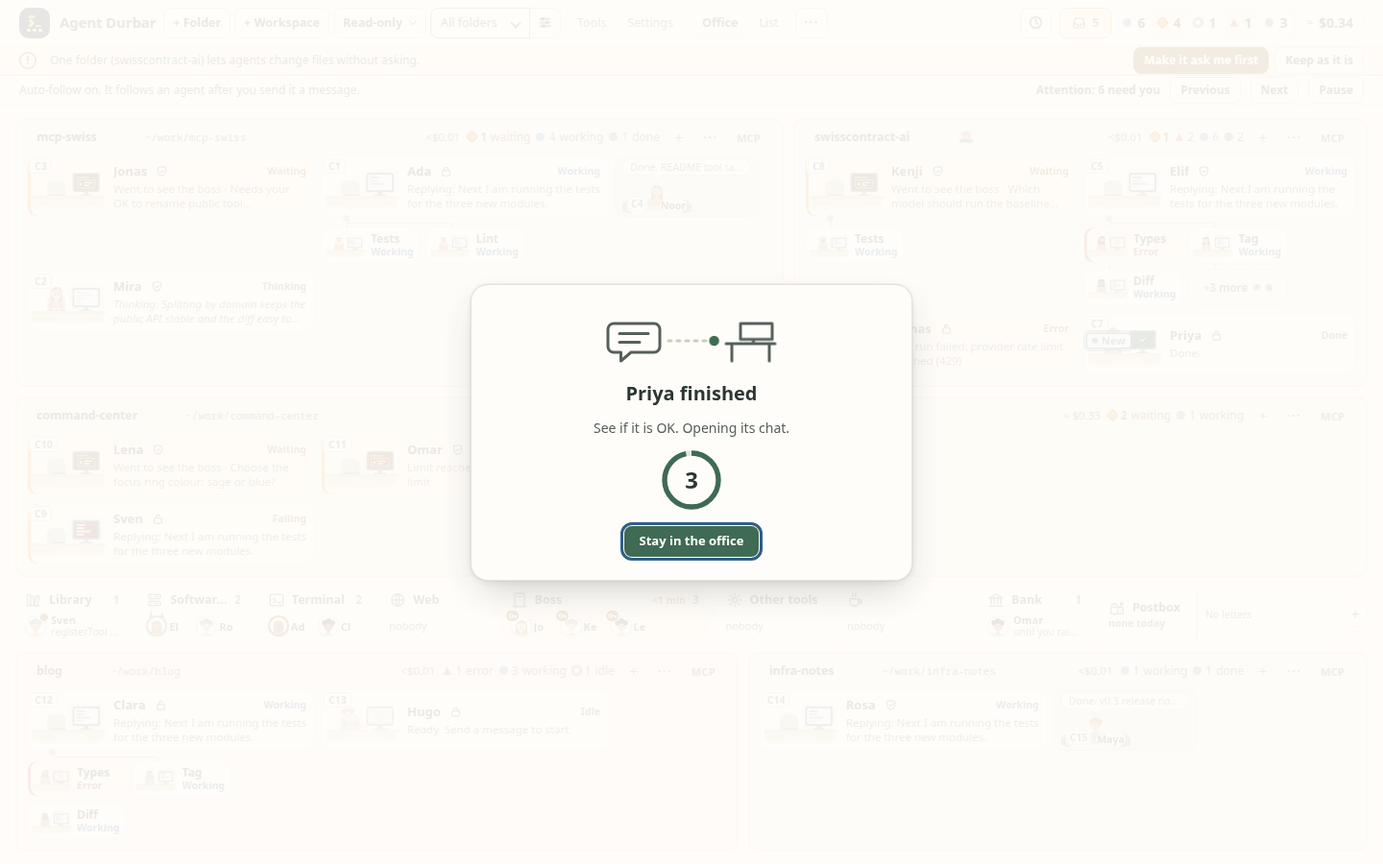
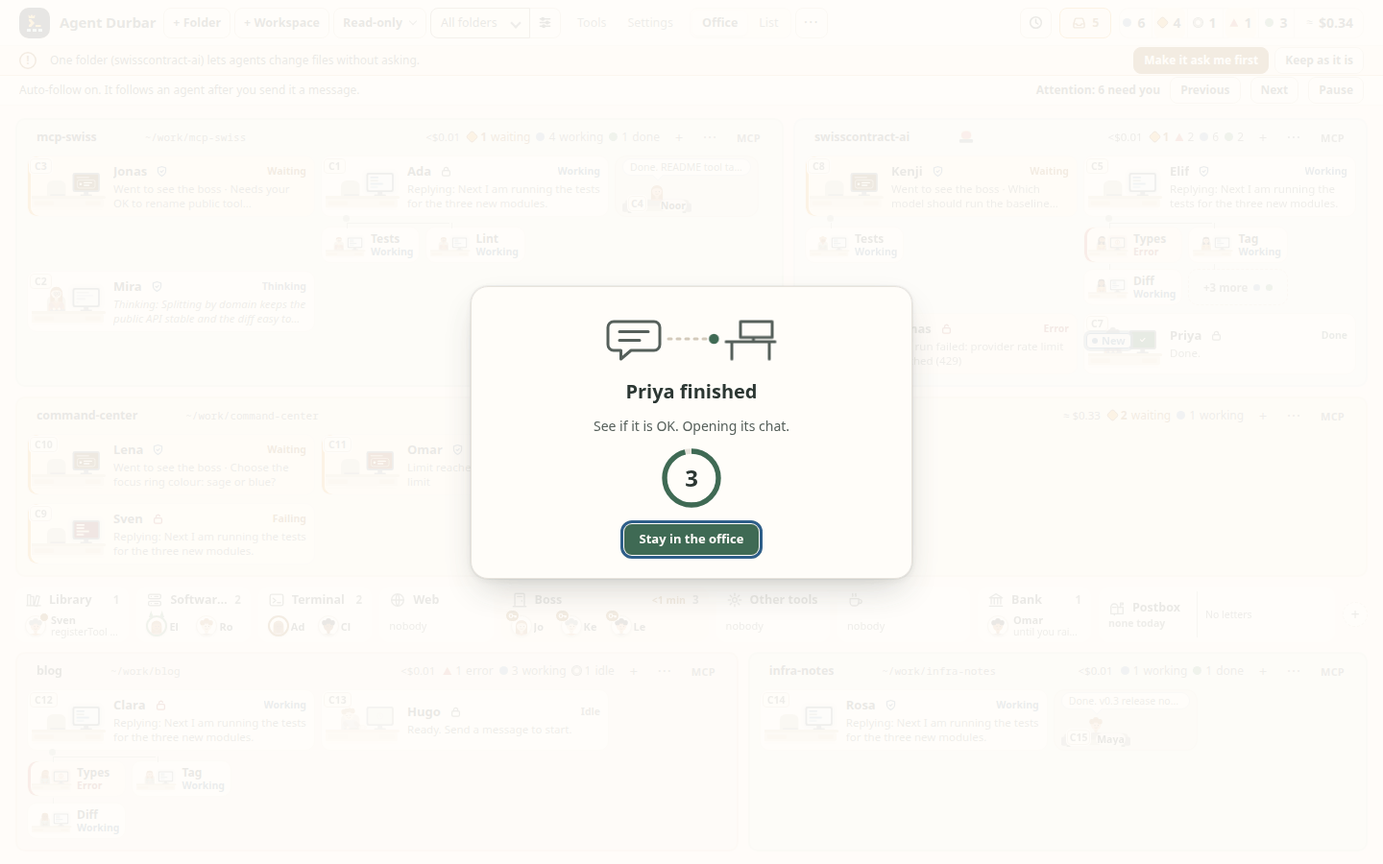
052: notice CSS on the type and spacing tokens, before the flat section; pictures linked from the spec (site budget); driver lint

Changed region(s): [[0.4375, 0.4356, 0.5625, 0.6533], [0.4375, 0.3733, 0.5625, 0.4356]]

diff --git a/scripts/check-052-follow-notice.js b/scripts/check-052-follow-notice.js
@@ -44,13 +44,13 @@ module.exports = async (ctx) => {
   const NOTICE = `document.querySelector('.dlg-ov.af-notice')`;
   const nameOf = (id) => js(`((window.__durbarSimUi.agents().find(a=>a.id===${jsLiteral(id)}))||{}).name||''`);
   const title = () => js(`(document.getElementById('panelTitle')||{}).textContent||''`);
-  const notice = () => js(`(()=>{const d=${NOTICE};if(!d)return null;const b=d.querySelector('.dlg'),btn=b.querySelector('.dbtn .btn');return {to:d.classList.contains('afn-to-office')?'office':d.classList.contains('afn-to-chat')?'chat':'',
+  const notice = () => js(`(()=>{const d=document.querySelector('.dlg-ov.af-notice');if(!d)return null;const b=d.querySelector('.dlg'),btn=b.querySelector('.dbtn .btn');return {to:d.classList.contains('afn-to-office')?'office':d.classList.contains('afn-to-chat')?'chat':'',
     head:b.querySelector('h3').textContent,sub:b.querySelector('.dsub').textContent,n:(b.querySelector('.afn-n')||{}).textContent||'',btn:btn?btn.textContent:'',btns:b.querySelectorAll('.dbtn .btn').length,
     focusBtn:document.activeElement===btn,role:b.getAttribute('role'),label:b.getAttribute('aria-label'),modal:b.getAttribute('aria-modal'),desc:b.getAttribute('aria-describedby'),
     hidden:(b.querySelector('.afn-count')||{getAttribute:()=>null}).getAttribute('aria-hidden'),art:(b.querySelector('.afn-art')||{getAttribute:()=>null}).getAttribute('aria-hidden')}})()`);
   /* every announcement, and what the live region ends on; `__racer` says a status within the notice's own 60 ms window (FR-240's priority) */
   const hooks = () => js(`(()=>{window.__ann=[];new MutationObserver(()=>{const t=document.getElementById('srAnnounce').textContent;if(t)window.__ann.push(t);}).observe(document.getElementById('srAnnounce'),{childList:true,characterData:true,subtree:true});
-    window.__nseq=[];window.__nAt=0;window.__nGone=0;new MutationObserver(()=>{const d=${NOTICE};if(d&&!d.__seen){d.__seen=1;window.__nAt=performance.now();window.__nGone=0;if(window.__racer)window.__durbarSimUi.announce('Racer status.');
+    window.__nseq=[];window.__nAt=0;window.__nGone=0;new MutationObserver(()=>{const d=document.querySelector('.dlg-ov.af-notice');if(d&&!d.__seen){d.__seen=1;window.__nAt=performance.now();window.__nGone=0;if(window.__racer)window.__durbarSimUi.announce('Racer status.');
       const n=d.querySelector('.afn-n');window.__nseq=[n.textContent];new MutationObserver(()=>{if(window.__nseq[window.__nseq.length-1]!==n.textContent)window.__nseq.push(n.textContent);}).observe(n,{childList:true,characterData:true,subtree:true});}
       if(!d&&window.__nAt&&!window.__nGone)window.__nGone=performance.now();}).observe(document.body,{childList:true});})()`);
   const anns = () => js(`window.__ann.slice()`);
@@ -64,14 +64,14 @@ module.exports = async (ctx) => {
     assert.ok(p && p.inside, name + ': the point on its desk is the desk');
     await clickAt(p.x, p.y);
     /* a Real office plate may take the first click as a hover zoom on a small layout: Enter on the focused plate opens it (both are a person's own opening) */
-    if (!(await until(`${OPEN}`, 1500)) && selector.includes('ro-plate')) { await js(`document.querySelector(${jsLiteral(selector)}).focus();0`); await H.key('Return'); }
-    if (!(await until(`${OPEN}&&!!document.getElementById('msgInput')&&(document.getElementById('panelTitle')||{}).textContent===${jsLiteral(name)}`, 8000))) assert.fail(`the chat of ${name} opens (title: ${JSON.stringify(await title())})`);
+    if (!(await until(`document.body.classList.contains('panel-open')`, 1500)) && selector.includes('ro-plate')) { await js(`document.querySelector(${jsLiteral(selector)}).focus();0`); await H.key('Return'); }
+    if (!(await until(`document.body.classList.contains('panel-open')&&!!document.getElementById('msgInput')&&(document.getElementById('panelTitle')||{}).textContent===${jsLiteral(name)}`, 8000))) assert.fail(`the chat of ${name} opens (title: ${JSON.stringify(await title())})`);
   };
   /* accepted, with no scripted reply after it: the step's own events are the only arrival */
-  const quiet = (on) => js(`(()=>{const b=window.__durbarSimUi.bridge();if(${on}){if(!b.__send){b.__send=b.send;b.send=async()=>({ok:true});}}else if(b.__send){b.send=b.__send;b.__send=null;}})();0`);
+  const quiet = (on) => (on ? js(`(()=>{const b=window.__durbarSimUi.bridge();if(!b.__send){b.__send=b.send;b.send=async()=>({ok:true});}})();0`) : js(`(()=>{const b=window.__durbarSimUi.bridge();if(b.__send){b.send=b.__send;b.__send=null;}})();0`));
   const sendHere = async (text) => { await mclick('#msgInput'); await type(text); await H.key('Return'); };
   /* FR-241: the notice covers the window, its card is inside, its parts do not overlap, text >= 10.5 px, no page scroll */
-  const fit = () => js(`(()=>{const P=[],d=${NOTICE};if(!d)return ['no notice'];const W=innerWidth,Hh=innerHeight,o=d.getBoundingClientRect(),c=d.querySelector('.dlg').getBoundingClientRect();
+  const fit = () => js(`(()=>{const P=[],d=document.querySelector('.dlg-ov.af-notice');if(!d)return ['no notice'];const W=innerWidth,Hh=innerHeight,o=d.getBoundingClientRect(),c=d.querySelector('.dlg').getBoundingClientRect();
     if(Math.round(o.left)!==0||Math.round(o.top)!==0||Math.round(o.width)!==W||Math.round(o.height)!==Hh)P.push('overlay is not the whole window: '+[o.left,o.top,o.width,o.height].map(Math.round));
     if(c.left<0||c.top<0||c.right>W||c.bottom>Hh)P.push('card outside the window: '+[c.left,c.top,c.right,c.bottom].map(Math.round));
     const parts=[...d.querySelectorAll('.afn-art,.dlg>h3,.dlg>.dsub,.afn-count,.dbtn .btn')].map(e=>({k:e.className.baseVal!==undefined?e.className.baseVal:(e.className||e.tagName),r:e.getBoundingClientRect()}));
@@ -82,9 +82,9 @@ module.exports = async (ctx) => {
     const fl=document.getElementById('floor');if(fl&&fl.scrollTop>0)P.push('the office scrolled');
     return P;})()`);
   /* the animations running inside the notice */
-  const running = () => js(`(()=>{const d=${NOTICE};if(!d)return -1;return document.getAnimations().filter(a=>a.playState==='running'&&a.effect&&a.effect.target&&d.contains(a.effect.target)).length;})()`);
+  const running = () => js(`(()=>{const d=document.querySelector('.dlg-ov.af-notice');if(!d)return -1;return document.getAnimations().filter(a=>a.playState==='running'&&a.effect&&a.effect.target&&d.contains(a.effect.target)).length;})()`);
   const shotTo = (name) => H.shot(path.join(OUT, name), { prep: 'mouse', settle: false, delay: 250 });
-  const bg = (on) => js(`window.__durbarFocus=${on ? '()=>false' : 'null'};0`);
+  const bg = (on) => (on ? js(`window.__durbarFocus=()=>false;0`) : js(`window.__durbarFocus=null;0`));
   const A = 'sim-7', B = 'sim-13';
 
   // ======== Open office: the whole behaviour, both sizes ========
@@ -116,7 +116,7 @@ module.exports = async (ctx) => {
     assert.strictEqual(await js(OPEN), true, `${tag}: the chat is still open under the notice`);
     assert.deepStrictEqual(await fit(), [], `${tag}: FR-241: the notice to the office fits`);
     if (w === 1440) assert.ok((await running()) >= 2, `${tag}: FR-241: the picture and the ring move with motion allowed`);
-    await ok(`!${NOTICE}&&!${OPEN}`, `${tag}: FR-239: the move happens when the count ends`, 6000);
+    await ok(`!document.querySelector('.dlg-ov.af-notice')&&!document.body.classList.contains('panel-open')`, `${tag}: FR-239: the move happens when the count ends`, 6000);
     const took = await js(`window.__nGone-window.__nAt`);
     assert.ok(took >= 2700 && took <= 4500, `${tag}: FR-239: about 3 s: ${Math.round(took)} ms`);
     assert.deepStrictEqual(await js(`window.__nseq.slice()`), ['3', '2', '1'], `${tag}: FR-239: it counts 3, 2, 1`);
@@ -138,7 +138,7 @@ module.exports = async (ctx) => {
     assert.deepStrictEqual([n.to, n.head, n.sub, n.btn, n.focusBtn, n.n], ['chat', `${nameA} finished`, 'See if it is OK. Opening its chat.', 'Stay in the office', true, '3'], `${tag}: FR-238, FR-239: the notice to the chat: ${JSON.stringify(n)}`);
     assert.strictEqual(await js(OPEN), false, `${tag}: nothing opened yet`);
     assert.deepStrictEqual(await fit(), [], `${tag}: FR-241: the notice to the chat fits`);
-    await ok(`!${NOTICE}&&${OPEN}&&document.getElementById('panelTitle').textContent===${jsLiteral(nameA)}&&document.activeElement&&document.activeElement.id==='panelTitle'`, `${tag}: FR-239: after the count its chat opens, focus on the title`, 6000);
+    await ok(`!document.querySelector('.dlg-ov.af-notice')&&document.body.classList.contains('panel-open')&&document.getElementById('panelTitle').textContent===${jsLiteral(nameA)}&&document.activeElement&&document.activeElement.id==='panelTitle'`, `${tag}: FR-239: after the count its chat opens, focus on the title`, 6000);
     await js(`window.__racer=0;0`);
     await ok(`window.__ann.includes(${jsLiteral(nameA + ' finished. Its chat is open.')})`, `${tag}: FR-240: the arrival line is said`, 2000);
     said = await anns();
@@ -153,30 +153,30 @@ module.exports = async (ctx) => {
     await ok(NOTICE, `${tag}: the notice again (every time)`, 4000);
     await ok(`window.__ann.some(t=>/Press Escape to stay here\\.$/.test(t))`, `${tag}: the notice was said (a cancel within its 60 ms window would be outranked by it)`, 2000);
     await mclick(`.dlg-ov.af-notice .dbtn .btn`);
-    await ok(`!${NOTICE}`, `${tag}: FR-239: Stay here closes the notice`, 2000);
-    await stays(`${OPEN}&&document.getElementById('panelTitle').textContent===${jsLiteral(nameA)}&&!${NOTICE}`, `${tag}: FR-239: Stay here: the chat stays open, past the count`, 3600);
+    await ok(`!document.querySelector('.dlg-ov.af-notice')`, `${tag}: FR-239: Stay here closes the notice`, 2000);
+    await stays(`document.body.classList.contains('panel-open')&&document.getElementById('panelTitle').textContent===${jsLiteral(nameA)}&&!document.querySelector('.dlg-ov.af-notice')`, `${tag}: FR-239: Stay here: the chat stays open, past the count`, 3600);
     assert.strictEqual(await js(`document.activeElement&&document.activeElement.id`), 'msgInput', `${tag}: FR-239: the focus goes back to the message box`);
     assert.ok((await js(`document.getElementById('afText').textContent`)).includes(`${nameA} is working`), `${tag}: FR-239: ${nameA} is still followed`);
-    if (!(await until(`window.__ann.includes('Staying here.')`, 3000))) assert.fail(`${tag}: FR-240: the cancel is said: ${JSON.stringify(await anns())} ${JSON.stringify(await js(`({live:document.getElementById('srAnnounce').textContent,shown:window.__durbarSimUi.afNotice.shown(),dlg:!!document.getElementById('modeDlg')})`))}`);
+    if (!(await until(`window.__ann.includes('Staying here.')`, 3000))) assert.fail(tag + ': FR-240: the cancel is said: ' + JSON.stringify(await anns()));
     await finish(A, 'Done again.');
-    await stays(`${OPEN}&&!${NOTICE}`, `${tag}: FR-184: an arrival in the chat already shown shows no notice and moves nothing`, 1500);
+    await stays(`document.body.classList.contains('panel-open')&&!document.querySelector('.dlg-ov.af-notice')`, `${tag}: FR-184: an arrival in the chat already shown shows no notice and moves nothing`, 1500);
 
     // ---- Escape cancels the same way
     await sendHere('and again');
     await ok(NOTICE, `${tag}: the notice`, 4000);
     await H.key('Escape');
-    await ok(`!${NOTICE}`, `${tag}: FR-239: Escape closes the notice`, 2000);
-    await stays(`${OPEN}&&!${NOTICE}`, `${tag}: FR-239: Escape: the chat stays open, past the count`, 3600);
+    await ok(`!document.querySelector('.dlg-ov.af-notice')`, `${tag}: FR-239: Escape closes the notice`, 2000);
+    await stays(`document.body.classList.contains('panel-open')&&!document.querySelector('.dlg-ov.af-notice')`, `${tag}: FR-239: Escape: the chat stays open, past the count`, 3600);
 
     // ---- a window in the background pauses the count; it goes on when the window is back
     await finish(A, 'Done.');
     await sendHere('in the background');
     await ok(NOTICE, `${tag}: the notice`, 4000);
     await bg(true);
-    await stays(`!!${NOTICE}&&${OPEN}&&document.querySelector('.af-notice .afn-n').textContent==='3'`, `${tag}: FR-239: in the background the count waits at 3`, 3600);
-    assert.strictEqual(await js(`${NOTICE}.classList.contains('afn-paused')`), true, `${tag}: and its motion pauses`);
+    await stays(`!!document.querySelector('.dlg-ov.af-notice')&&document.body.classList.contains('panel-open')&&document.querySelector('.af-notice .afn-n').textContent==='3'`, `${tag}: FR-239: in the background the count waits at 3`, 3600);
+    assert.strictEqual(await js(`document.querySelector('.dlg-ov.af-notice').classList.contains('afn-paused')`), true, `${tag}: and its motion pauses`);
     await bg(false);
-    await ok(`!${NOTICE}&&!${OPEN}`, `${tag}: FR-239: back in front, the count goes on and moves`, 6000);
+    await ok(`!document.querySelector('.dlg-ov.af-notice')&&!document.body.classList.contains('panel-open')`, `${tag}: FR-239: back in front, the count goes on and moves`, 6000);
 
     // ---- Stay in the office: no chat, the New marker kept, not offered again
     await js(`window.__ann.length=0;0`);
@@ -184,8 +184,8 @@ module.exports = async (ctx) => {
     await ok(NOTICE, `${tag}: the notice to the chat`, 15000);
     await ok(`window.__ann.some(t=>/Press Escape to stay in the office\\.$/.test(t))`, `${tag}: the notice was said`, 2000);
     await mclick(`.dlg-ov.af-notice .dbtn .btn`);
-    await ok(`!${NOTICE}`, `${tag}: Stay in the office closes it`, 2000);
-    await stays(`!${OPEN}&&!${NOTICE}`, `${tag}: FR-239: Stay in the office: no chat opens, and the arrival is not offered again`, 3600);
+    await ok(`!document.querySelector('.dlg-ov.af-notice')`, `${tag}: Stay in the office closes it`, 2000);
+    await stays(`!document.body.classList.contains('panel-open')&&!document.querySelector('.dlg-ov.af-notice')`, `${tag}: FR-239: Stay in the office: no chat opens, and the arrival is not offered again`, 3600);
     await ok(`!!document.querySelector(${jsLiteral(sel(A) + ' .unread-mark')})`, `${tag}: FR-239: its New marker stays`);
     await ok(`window.__ann.includes('Staying in the office.')`, `${tag}: FR-240: said`);
     assert.strictEqual(await js(`document.activeElement&&document.activeElement.dataset&&document.activeElement.dataset.id`), A, `${tag}: FR-239: the focus goes back to the desk`);
@@ -195,10 +195,10 @@ module.exports = async (ctx) => {
     assert.strictEqual(await js(`window.__durbarSimUi.bridge().setPermMode(${jsLiteral(B)},'ask',{}).then(r=>r.ok)`), true, `${tag}: ${nameB} asks first`);
     await openChatBy(sel(B), nameB);
     await sendHere('please edit the file');
-    await ok(`!${OPEN}`, `${tag}: back to the office after the notice`, 8000);
-    await ok(`!!${NOTICE}&&${NOTICE}.querySelector('h3').textContent===${jsLiteral(nameB + ' needs you')}`, `${tag}: FR-238: a request: "${nameB} needs you"`, 20000);
+    await ok(`!document.body.classList.contains('panel-open')`, `${tag}: back to the office after the notice`, 8000);
+    await ok(`!!document.querySelector('.dlg-ov.af-notice')&&document.querySelector('.dlg-ov.af-notice').querySelector('h3').textContent===${jsLiteral(nameB + ' needs you')}`, `${tag}: FR-238: a request: "${nameB} needs you"`, 20000);
     assert.strictEqual((await notice()).sub, 'Opening its chat.', `${tag}: no "see if it is OK" for a request`);
-    await ok(`!${NOTICE}&&${OPEN}&&!!document.querySelector('#chat .note.perm:not(.settled)')&&document.activeElement&&document.activeElement.id==='panelTitle'`, `${tag}: its chat opens, the request still open, the focus on the title`, 6000);
+    await ok(`!document.querySelector('.dlg-ov.af-notice')&&document.body.classList.contains('panel-open')&&!!document.querySelector('#chat .note.perm:not(.settled)')&&document.activeElement&&document.activeElement.id==='panelTitle'`, `${tag}: its chat opens, the request still open, the focus on the title`, 6000);
     await ctx.sleep(600); /* FR-184: the answer controls ignore clicks for 500 ms after an automatic open */
     await js(`(()=>{const b=[...document.querySelectorAll('#chat .note.perm:not(.settled) .note-actions button')].find(x=>/deny/i.test(x.textContent));if(b)b.click();})()`);
     await ok(`(()=>{const a=window.__durbarSimUi.agents().find(x=>x.id===${jsLiteral(B)});return a&&a.state!=='working'&&a.state!=='thinking'&&a.state!=='waiting'})()`, `${tag}: ${nameB} settles`, 25000);
@@ -222,9 +222,9 @@ module.exports = async (ctx) => {
         await sendHere('still');
         await ok(NOTICE, `${how}: the notice shows`, 4000);
         assert.strictEqual(await running(), 0, `${how}: FR-241: no animation runs in the notice`);
-        await ok(`${NOTICE}&&document.querySelector('.af-notice .afn-n').textContent==='2'`, `${how}: FR-241: the number still counts`, 2500);
+        await ok(`document.querySelector('.dlg-ov.af-notice')&&document.querySelector('.af-notice .afn-n').textContent==='2'`, `${how}: FR-241: the number still counts`, 2500);
         assert.strictEqual(await running(), 0, `${how}: FR-241: still none later`);
-        await ok(`!${NOTICE}&&!${OPEN}`, `${how}: the move happens`, 4000);
+        await ok(`!document.querySelector('.dlg-ov.af-notice')&&!document.body.classList.contains('panel-open')`, `${how}: the move happens`, 4000);
       } finally {
         if (how === 'reduced motion') await dbg.sendCommand('Emulation.setEmulatedMedia', { features: [] });
       }
@@ -251,7 +251,7 @@ module.exports = async (ctx) => {
     assert.deepStrictEqual(await fit(), [], `${tag}: FR-241: the notice to the office fits`);
     await shotTo(`052-follow-notice-office-${world}-${w}x${h}.png`);
     await bg(false);
-    await ok(`!${NOTICE}&&!${OPEN}`, `${tag}: the move`, 6000);
+    await ok(`!document.querySelector('.dlg-ov.af-notice')&&!document.body.classList.contains('panel-open')`, `${tag}: the move`, 6000);
     await ok(`!!document.querySelector(${jsLiteral(home + '.is-followed')})`, `${tag}: its desk is followed`);
     await finish(A, 'Done.');
     await ok(NOTICE, `${tag}: the notice to the chat`, 15000);
@@ -260,7 +260,7 @@ module.exports = async (ctx) => {
     assert.deepStrictEqual(await fit(), [], `${tag}: FR-241: the notice to the chat fits`);
     await shotTo(`052-follow-notice-chat-${world}-${w}x${h}.png`);
     await bg(false);
-    await ok(`!${NOTICE}&&${OPEN}&&document.activeElement&&document.activeElement.id==='panelTitle'`, `${tag}: its chat opens`, 6000);
+    await ok(`!document.querySelector('.dlg-ov.af-notice')&&document.body.classList.contains('panel-open')&&document.activeElement&&document.activeElement.id==='panelTitle'`, `${tag}: its chat opens`, 6000);
     console.log(`[follow-notice] ${tag} ok`);
   }
   } finally { await H.releaseFocus(); }

diff --git a/src/renderer/styles.css b/src/renderer/styles.css
@@ -1750,6 +1750,30 @@ html:is(.hl-still,[data-still-highlights]) .desk .pp,html[data-still-highlights]
 .dlg-ov{animation:dlgov .12s ease-out}
 @keyframes dlgin{from{opacity:0;transform:translateY(6px) scale(.985)}}
 @keyframes dlgov{from{opacity:0}}
+/* spec 052 FR-241 (owner, 2026-11-09): the Auto-follow notice. Full screen (the page shows faintly through the theme's surface), a .dlg card in the
+   middle: the picture of the move, the two lines, the countdown ring and Stay. Theme tokens only; :root raises it over the worlds' .dlg-ov tint. */
+:root .dlg-ov.af-notice{background:color-mix(in srgb,var(--surface) 90%,transparent);z-index:70}
+.af-notice .dlg{width:min(460px,calc(100vw - 32px));align-items:center;text-align:center;gap:var(--s-3);padding:var(--s-5)}
+.af-notice .afn-body{display:contents}
+.af-notice .afn-art{order:-1;width:180px;height:60px;color:var(--ink-2);overflow:visible}
+.af-notice .afn-art path{fill:none;stroke:currentColor;stroke-width:2;stroke-linecap:round;stroke-linejoin:round}
+.af-notice .afn-art .afn-track{stroke:var(--line-2);stroke-dasharray:2 4}
+.af-notice .afn-dot{fill:var(--accent);animation:afn-go 1.2s ease-in-out infinite}
+.af-notice.afn-to-chat .afn-dot{animation-direction:reverse}
+@keyframes afn-go{from{transform:translateX(0)}to{transform:translateX(32px)}}
+.af-notice .dlg h3{font-size:calc(var(--t1-size) * 1.25);line-height:var(--t2-lh);overflow-wrap:anywhere} /* the type scale's T1, a step up for a notice that fills the window */
+.af-notice .dlg .dsub{font-size:var(--t2-size);max-width:38ch}
+.af-notice .afn-count{position:relative;width:64px;height:64px;display:grid;place-items:center}
+.af-notice .afn-ring{position:absolute;inset:0;width:64px;height:64px;transform:rotate(-90deg)}
+.af-notice .afn-ring circle{fill:none;stroke-width:4}
+.af-notice .afn-ring-bg{stroke:var(--line)}
+.af-notice .afn-ring-fg{stroke:var(--accent);stroke-dasharray:100;stroke-dashoffset:0;animation:afn-ring var(--afn-ms,3000ms) linear forwards}
+@keyframes afn-ring{to{stroke-dashoffset:100}}
+.af-notice .afn-n{font-size:calc(var(--t1-size) * 1.5);font-weight:var(--t1-weight);color:var(--ink);font-variant-numeric:tabular-nums}
+.af-notice .dbtn{justify-content:center}
+.af-notice.afn-paused :is(.afn-dot,.afn-ring-fg){animation-play-state:paused}
+/* FR-241: reduced motion (the global rule at the top stops every animation) and the Motion setting off: nothing moves; the text and the number counting down stay */
+html[data-motion-off] .af-notice :is(.afn-dot,.afn-ring-fg,.dlg),html[data-motion-off] .dlg-ov.af-notice{animation:none}
 /* FR-049: room for a copy button at the bottom of the Thinking box */
 .think-body.md{padding-bottom:26px}
 .think-body.md>.cp-msg{bottom:4px} /* FR-092: the box no longer scrolls, so Copy stays at its bottom edge, outside any scroll area */
@@ -2242,27 +2266,3 @@ html[data-flat-look]:not([data-ui]):not([data-world]){
   --composer-pad:6px; --inbox-pad:4px;
 }
 html[data-flat-look]:not([data-ui]):not([data-world])[data-density="compact"] :is(#panel,#screen,.dlg,.dlg-ov,.more-menu,.mode-menu,#topMoreMenu){--h-ctl:24px; --h-chip:24px}
-/* spec 052 FR-241 (owner, 2026-11-09): the Auto-follow notice. Full screen (the page shows faintly through the theme's surface), a .dlg card in the
-   middle: the picture of the move, the two lines, the countdown ring and Stay. Theme tokens only; :root raises it over the worlds' .dlg-ov tint. */
-:root .dlg-ov.af-notice{background:color-mix(in srgb,var(--surface) 90%,transparent);z-index:70}
-.af-notice .dlg{width:min(460px,calc(100vw - 32px));align-items:center;text-align:center;gap:var(--s-3);padding:28px 32px 24px}
-.af-notice .afn-body{display:contents}
-.af-notice .afn-art{order:-1;width:180px;height:60px;color:var(--ink-2);overflow:visible}
-.af-notice .afn-art path{fill:none;stroke:currentColor;stroke-width:2;stroke-linecap:round;stroke-linejoin:round}
-.af-notice .afn-art .afn-track{stroke:var(--line-2);stroke-dasharray:2 4}
-.af-notice .afn-dot{fill:var(--accent);animation:afn-go 1.2s ease-in-out infinite}
-.af-notice.afn-to-chat .afn-dot{animation-direction:reverse}
-@keyframes afn-go{from{transform:translateX(0)}to{transform:translateX(32px)}}
-.af-notice .dlg h3{font-size:20px;line-height:1.3;overflow-wrap:anywhere}
-.af-notice .dlg .dsub{font-size:14px;max-width:38ch}
-.af-notice .afn-count{position:relative;width:64px;height:64px;display:grid;place-items:center}
-.af-notice .afn-ring{position:absolute;inset:0;width:64px;height:64px;transform:rotate(-90deg)}
-.af-notice .afn-ring circle{fill:none;stroke-width:4}
-.af-notice .afn-ring-bg{stroke:var(--line)}
-.af-notice .afn-ring-fg{stroke:var(--accent);stroke-dasharray:100;stroke-dashoffset:0;animation:afn-ring var(--afn-ms,3000ms) linear forwards}
-@keyframes afn-ring{to{stroke-dashoffset:100}}
-.af-notice .afn-n{font-size:24px;font-weight:650;color:var(--ink);font-variant-numeric:tabular-nums}
-.af-notice .dbtn{justify-content:center}
-.af-notice.afn-paused :is(.afn-dot,.afn-ring-fg){animation-play-state:paused}
-/* FR-241: reduced motion (the global rule at the top stops every animation) and the Motion setting off: nothing moves; the text and the number counting down stay */
-html[data-motion-off] .af-notice :is(.afn-dot,.afn-ring-fg,.dlg),html[data-motion-off] .dlg-ov.af-notice{animation:none}

diff --git a/scripts/check-auto-follow.js b/scripts/check-auto-follow.js
@@ -159,7 +159,7 @@ module.exports = async (ctx) => {
     // ---- send -> office and desk -> completion opens the chat on its title
     await sendQuiet(A, 'hello follow');
     const nameA = await nameOf(A);
-    if (!(await until(`!document.body.classList.contains('panel-open')&&!!document.querySelector(${jsLiteral(sel(A) + '.is-followed')})&&document.activeElement&&document.activeElement.dataset.id===${jsLiteral(A)}`, 8000))) assert.fail(`${tag}: back to the office with ${nameA} followed and focused ` + JSON.stringify(await js(`({open:document.body.classList.contains('panel-open'),f:[...document.querySelectorAll('.is-followed')].map(n=>n.dataset.id),act:document.activeElement&&(document.activeElement.id||document.activeElement.className),notice:!!document.querySelector('.af-notice'),n:document.querySelectorAll('#stage .desk[data-id="sim-7"]').length,same:document.activeElement===document.querySelector('#stage .desk[data-id="sim-7"]'),cls:(document.querySelector('#stage .desk[data-id="sim-7"]')||{}).className,strip:document.getElementById('afText').textContent})`)));
+    if (!(await until(`!document.body.classList.contains('panel-open')&&!!document.querySelector(${jsLiteral(sel(A) + '.is-followed')})&&document.activeElement&&document.activeElement.dataset.id===${jsLiteral(A)}`, 8000))) assert.fail(`${tag}: back to the office with ${nameA} followed and focused ` + JSON.stringify(await js(`({open:document.body.classList.contains('panel-open'),f:[...document.querySelectorAll('.is-followed')].map(n=>n.dataset.id),act:document.activeElement&&(document.activeElement.id||document.activeElement.className),notice:!!document.querySelector('.af-notice'),strip:document.getElementById('afText').textContent})`)));
     const off = await js(`(()=>{const c=getComputedStyle(document.querySelector(${jsLiteral(sel(A))}));return {ol:c.outlineStyle+' '+c.outlineWidth,tx:document.getElementById('afText').textContent};})()`);
     assert.strictEqual(off.ol, 'dashed 2px', `${tag}: the marker is a dashed 2px outline (not colour alone): ${off.ol}`);
     assert.ok(new RegExp(nameA + ' is working\\. Back to the office\\.').test(off.tx), `${tag}: honest status: ${off.tx}`);

diff --git a/scripts/shots-docs.js b/scripts/shots-docs.js
@@ -35,7 +35,6 @@ const DOC_SHOTS = [
   { name: 'shots-001-live-activity', freeze: false, files: ['001-live-activity-dense-1440x900.png', '001-live-activity-side-1440x900.png'] },
   { name: 'shots-001-lobby', files: ['001-lobby-15-1280x800.png', '001-lobby-15-1440x900.png', '001-lobby-15-1440x900-retro.png', '001-lobby-3-1440x900.png'] },
   { name: 'check-unread', files: ['001-unread-1440x900.png'] }, // spec 001 FR-172 (issue #691): two unread replies on their desks
-  { name: 'check-052-follow-notice', files: ['052-follow-notice-office-flat-1440x900.png', '052-follow-notice-chat-flat-1440x900.png'] }, // spec 052 FR-238..FR-241: the Auto-follow notice to the office (over the chat) and to the chat (over the office)
   { name: 'check-rail', files: ['005-rail-collapsed-1440x900.png'] }, // spec 005 FR-216: the agent rail with a collapsed folder (count and needs-you mark)
   { name: 'check-status-tooltip', files: ['001-status-tooltip-1440x900.png'] }, // spec 001 FR-187 (issue #875): the tooltip on the Idle count (hover)
   { name: 'shots-005-cardmenu', files: ['005-card-menu-stop-end-1440x900.png'] },

diff --git a/docs/features.md b/docs/features.md
@@ -36,7 +36,7 @@ Where each feature works (Flat, Real office, worlds): [feature inventory](featur
 - **A browser in every chat** (spec 080, issue [#556](https://github.com/three-feathers/agent-durbar/issues/556)): each chat has **Chat | Browser** tabs. The Browser tab has an address field, Back, Forward, Reload and Stop, a **Sound** toggle (sound starts off) and **Open in system browser**. Each session gets its own private, in-memory profile: cookies, storage and cache are never shared with another session and are wiped when the session ends, is removed or its folder is removed. A click on an `http` or `https` link in a chat opens it in that session's Browser tab (Ctrl+click, or ⌘+click on a Mac, and the link's right-click menu open it in your usual browser; *Settings > Open chat links in* changes the plain click). Only `http` and `https` addresses open; `file:`, `javascript:`, other schemes and addresses with a user name and password are refused with a reason. **Page tabs** (spec 080 US6, issue [#910](https://github.com/three-feathers/agent-durbar/issues/910)): each session's browser holds up to 10 tabs, in a strip above the address bar ([screenshot](screenshots/080-browser-tabs-1440x900.png), [1280x800](screenshots/080-browser-tabs-1280x800.png)); **+** or Ctrl+T (⌘T) opens one, its **x**, Ctrl+W (⌘W) or Delete in the strip closes one, Ctrl+Tab and Ctrl+Shift+Tab switch. The bar's **⋯** menu has **Open chat links in a new tab** (off by default, one setting for every session): with it on, a chat link opens in a new tab next to the one you are reading, and a link a tab already shows brings that tab to the front instead of opening it twice; the link's right-click menu has **Open in a new tab** either way. A page's own *open in a new tab* links open a tab of the same session too (only `http`/`https` from the page's own site, at most 5 per page load). The session's tabs share its private profile, so a sign-in in one tab holds in the others, and all of it is wiped when the session ends. Linux and the simulator only so far; see Known limits.
 - Questions an agent asks you appear as a card with its choices, an "Other" answer and Skip. The whole question, every choice and its description are shown in full; Enter in the "Other" box sends your answer (Shift+Enter adds a line). While a question waits and its card is scrolled out of view, the bar above the message box shows it; a short one can be answered right there (its choices, an "Other" box and Skip), a longer one has **Show question**. Several context compactions in a row are one line that counts them ("Context compacted 4 times · last 10:21").
 - **Needs you:** one inbox of every agent waiting for you, oldest first with how long each has waited. Open it with **I**, **Ctrl+Shift+A** (also from a text box) or **Ctrl+A** when the cursor is not in a text box or the chat log (there Ctrl+A still selects all). While Durbar is in the background the window title ("(3) Agent Durbar"), the app icon and one notification tell you (Settings > Notifications turns it off; it shows only the agent's name and a short summary). In a waiting chat, **Alt+A** allows once, **Alt+S** allows for the session, **Alt+D** denies and **Alt+N** goes to the next agent (a held key answers once, never down the queue; a spending limit is answered with its buttons, never a letter key); **?** lists every shortcut.
-- **Auto-follow work** (Settings, off by default): after a message is accepted, the window returns to the office with that agent's desk marked, then opens its chat (focus on the title; it never answers or approves for you) when the agent finishes, asks, errors or reaches its limit. It waits while you type, a dialog or menu is open, or you chose another agent. A strip under the top bar has Previous and Next (**[** and **]**) over the Needs you queue then unread replies, with "2 of 3", and Pause. Before each automatic move, a full-screen notice says where it is taking you and why ("Priya is working on this. Taking you to the office.", "Priya finished. See if it is OK. Opening its chat.") and counts down 3 seconds; **Stay here** / **Stay in the office** or **Esc** cancels the move. With reduced motion, or Motion off in Settings, nothing in it moves; the text and the number stay. It looks the same in Open office and in every Real office world. Spec 052 FR-182..FR-190 ([1440x900](screenshots/052-auto-follow-queue-1440x900.png), [1280x800](screenshots/052-auto-follow-queue-1280x800.png)), FR-238..FR-241 (the notice: [to the office](screenshots/052-follow-notice-office-flat-1440x900.png), [to the chat](screenshots/052-follow-notice-chat-flat-1440x900.png)).
+- **Auto-follow work** (Settings, off by default): after a message is accepted, the window returns to the office with that agent's desk marked, then opens its chat (focus on the title; it never answers or approves for you) when the agent finishes, asks, errors or reaches its limit. It waits while you type, a dialog or menu is open, or you chose another agent. A strip under the top bar has Previous and Next (**[** and **]**) over the Needs you queue then unread replies, with "2 of 3", and Pause. Before each automatic move, a full-screen notice says where it is taking you and why ("Priya is working on this. Taking you to the office.", "Priya finished. See if it is OK. Opening its chat.") and counts down 3 seconds; **Stay here** / **Stay in the office** or **Esc** cancels the move. With reduced motion, or Motion off in Settings, nothing in it moves; the text and the number stay. It looks the same in Open office and in every Real office world. Spec 052 FR-182..FR-190 ([1440x900](screenshots/052-auto-follow-queue-1440x900.png), [1280x800](screenshots/052-auto-follow-queue-1280x800.png)), FR-238..FR-241 (the notice).
 - **Under the message box**, as in VS Code, one compact row sets how the next message runs: the profile, the mode (*Read-only*, *Ask first*, *Allow all* in red), the model's name (its menu holds the effort and the context window choices that model has), a small **context ring** coloured by how full the window is (green, amber from 70%, red above 90%; hover for "Context 55% of 1M"; click for a token summary with one bar per type the agent app reports: system instructions, tool definitions, chat messages, other; Claude Code and Codex report only a total, and the summary says so; **Compact** is there too), **MCP 12/16** (servers on out of all servers for this chat; it opens the server list), and attach file or image. In a narrow window what does not fit goes under **⋯**; the mode always stays in view. ([screenshot](screenshots/005-composer-expert-light-1440x900.png), [token summary](screenshots/005-composer-ctxsummary-1440x900.png), [at 1280x800](screenshots/005-composer-ctxsummary-1280x800.png)).
 - **Type `/` for the folder's skills and commands** (spec 073): at the start of a word in the message box, a list shows the skills, commands and prompt files of this agent app in the folder or workspace, then your own (user level), then a short allow list of the app's built-ins where typing them really runs them (Claude Code only: `compact`, `context`, `cost`, `init`, `review`, `security-review`; a built-in a later Claude Code adds is never offered by default). Each row has the name, a one-line description and where it comes from; typing filters, arrow keys move, Tab or Enter put it in the box, Esc closes the list. Places: Claude Code `.claude/skills`, `.claude/commands` (and `~/.claude`); Copilot `.github/skills`, `.claude/skills`, `.agents/skills` (and `$COPILOT_HOME/skills`, default `~/.copilot/skills`, and `~/.agents/skills`); Codex `.agents/skills` (and `~/.agents/skills`, `~/.codex/skills`, `~/.codex/prompts` as `/prompts:<name>`). Every app also lists VS Code prompt files: the folder's `.github/prompts/*.prompt.md` and your VS Code user prompts (`Code/User/prompts` in `%APPDATA%`, `~/Library/Application Support` or `~/.config`); Durbar fills their `${input:name}` variables from your words (in order, or `name=value`). Claude Code and Copilot do not load these files in Durbar's sessions (checked), and Codex's app-server does not expand a typed `/name`, so for a folder or user entry Durbar sends that file's text with your words as its arguments, and the chat says so ([screenshot](screenshots/073-slash-1440x900.png)).
 - **Send / Stop:** one button inside the message box. It is **Send** while the agent is idle and **Stop** (with a spinner beside it) while a reply runs; type during a reply and Send shows beside Stop. **End** a session from More, or Stop and End from the agent's card menu ([screenshot](screenshots/005-card-menu-stop-end-1440x900.png)).

diff --git a/specs/052-usability-pass/spec.md b/specs/052-usability-pass/spec.md
@@ -118,7 +118,7 @@ Four reviewers worked from 17 simulator screenshots: the office at 1440x900 and 
 - `[IMPLEMENTED]` **FR-239 The countdown and staying** (owner decisions 2, 4). The notice counts down **3 seconds** (a number in a ring, "3", "2", "1"), then the move happens exactly as without the notice (FR-183's return with the desk focused and marked, FR-184's chat with the focus on its title and the 500 ms click guard). The count runs only while the window is visible and has the focus (FR-185, FR-190: a move never happens in a window you are not looking at); it goes on when you come back. **Stay here** / **Stay in the office**, **Escape**, or a click outside the notice's card cancels the move: (a) after a send, the chat stays open and the agent stays followed (its arrival opens nothing, since its chat is the one shown, FR-184); (b) at an arrival, its chat does not open, the arrival counts as delivered (it is not offered again), it stays in the attention queue and keeps its New marker, and further arrivals wait until you act (FR-184's one switch until you act). The focus starts on the Stay button, so Enter and Space also stay; the focus cannot leave the notice while it is shown; after a cancel it goes back to where it was. Nothing in the notice answers, allows or denies anything. While the notice is shown it is a modal dialog, so FR-185's guards hold other arrivals behind it. If Auto-follow is turned off or paused while it is shown, nothing moves.
 - `[IMPLEMENTED]` **FR-240 Said once, at request priority** (owner decision 5). Screen readers hear the notice once, when it opens, through `announce(text, ANN_REQUEST)` (spec 005 FR-237): "<name> is working on this. Taking you to the office in 3 seconds. Press Escape to stay here." / "<name> finished. See if it is OK. Opening its chat in 3 seconds. Press Escape to stay in the office." (a request, an error and a limit say their own first sentence). The countdown's digits are hidden from them (`aria-hidden`), so nothing is said each second. The notice is a `role="dialog"` named "Auto-follow" (not an alert dialog, whose description would be read a second time). The lines said after the move are unchanged ("<name> is working. Back to the office.", "<name> finished. Its chat is open.", at the priority spec 005 FR-237 gives each), and they come 3 seconds after the notice's line, so the notice never replaces the arrival line. A cancel says "Staying here." or "Staying in the office.".
 - `[IMPLEMENTED]` **FR-241 Look, motion and fit** (owner decisions 2, 5). The notice covers the whole window (the page behind shows faintly through the theme's surface colour) with a card in the middle: a small picture of the move (a chat bubble and a desk, a dot travelling from one to the other in the direction of the move), the two lines, the countdown ring and the button. Colours are theme tokens only, so every theme and world (Open office, the Photo office, the cave, the arcade) draws it in its own colours; text is at least 12 px (constitution V's 10.5 px floor), nothing overlaps and nothing scrolls at 1440x900 and 1280x800 with 15 agents. **Reduced motion** (`prefers-reduced-motion`, or the Motion setting off): no motion at all, the picture is still, the ring does not sweep; the text and the number counting down remain.
-- **Tests.** `[IMPLEMENTED]` `scripts/check-052-follow-notice.js` (simulator, both sizes): the notice to the office with its words, the countdown 3, 2, 1 and the Stay here button focused; Stay here and Escape cancel (the chat stays open, the agent stays followed); the timeout moves; the notice to the chat at a completion and at a request; Stay in the office (no chat, the New marker and the queue kept, no second notice); a window in the background pauses the count; the announcement text and its priority (said once; a status in the same window does not replace it; the arrival line after the move); the digits hidden from screen readers; reduced motion by media emulation and by the Motion setting (no running animation, the number still counts); in Open office, the Photo office, the cave and the arcade at both sizes: the card inside the window, no overlap, text at least 10.5 px, pictures of both notices. `check-auto-follow` runs every one of its steps through the notice (shortened for the driver with a simulator-only setting). `test-dialog` covers `askDialog`'s new options. Mutations listed on the PR.
+- **Tests.** `[IMPLEMENTED]` `scripts/check-052-follow-notice.js` (simulator, both sizes): the notice to the office with its words, the countdown 3, 2, 1 and the Stay here button focused; Stay here and Escape cancel (the chat stays open, the agent stays followed); the timeout moves; the notice to the chat at a completion and at a request; Stay in the office (no chat, the New marker and the queue kept, no second notice); a window in the background pauses the count; the announcement text and its priority (said once; a status in the same window does not replace it; the arrival line after the move); the digits hidden from screen readers; reduced motion by media emulation and by the Motion setting (no running animation, the number still counts); in Open office, the Photo office, the cave and the arcade at both sizes: the card inside the window, no overlap, text at least 10.5 px, pictures of both notices (Open office at 1440x900: [to the office](../../docs/screenshots/052-follow-notice-office-flat-1440x900.png), [to the chat](../../docs/screenshots/052-follow-notice-chat-flat-1440x900.png); linked from the spec only, the website's 8 MB budget has no room). `check-auto-follow` runs every one of its steps through the notice (shortened for the driver with a simulator-only setting). `test-dialog` covers `askDialog`'s new options. Mutations listed on the PR.
 - *Found while building* `sim:`: the office's relayout after a resize (`relayout()`, spec 024) redrew the desks without the pass that marks the followed one (`afTick()`), so a marker set just before the floor changed size was lost until the next full draw (seen in `check-auto-follow` once the return to the office came 600 ms later, after the chat's own relayout). `relayout()` now runs `afTick()` after it draws the office.
 - `[KNOWN GAP]` (2026-11-09) Simulator only (Linux, xvfb); Windows and macOS not run, no real agent session, no real screen reader (the live region's text and priority are asserted, not heard). A send from a helper's chat is not driven; *Send to several sessions* is driven by `check-auto-follow` from the office only, where no chat is left, so its notice ("<n> followed agents are working on this") is not driven.
 

diff --git a/docs/agent-notes.md b/docs/agent-notes.md
@@ -97,7 +97,6 @@ Each entry: **what** (bold), why, how to apply, evidence (`real:`, `read:`, `tes
 - **A driver loads the `dist` of the tree it lives in**: to compare builds, `require` the tested tree's helpers or pass `index:` to `H.load` (2026-10-25, `sim:`).
 - **Floors on: a driver sees one floor**: run every driver that loads `simfloors` (`grep -l simfloors scripts/*.js`); walk floors with `H.eachFloor` / `H.goToFloor` or use `simfloors=ground`. PageDown on the body does not scroll `#floor`; the key handler does (spec 092 phase 1).
 - **`announce()` keeps the last text within 60 ms**: in a driver wait for each announcement (`until` on a `MutationObserver` list of `#srAnnounce`, filter "Floor ") before the next change (spec 092 phase 2).
-- **A request-priority announcement outranks the next 60 ms** (spec 005 FR-237): a driver that cancels or answers right after one appears (a click within 60 ms) loses its own status line; wait until the request's line is in `#srAnnounce` before the next step (spec 052 FR-240, `sim:`).
 - **A marker keyed on "a turn just ended" fires on the simulator's start-up replay**: gate it with `SIM&&!window.__durbarSimReplayed`; an opened chat makes a Done agent Idle (`Ready in <folder>`) (#691).
 - **A driver that counts "today" needs a pinned clock** (`simclock=<ms>`, spec 001 FR-084): seeded schedules first run 12 minutes after start, so a run near midnight sees none (PR 621, `real:` CI at 23:54).
 - **The answer bar hides while its card is in view**: count unsettled `.note.perm` cards instead. Any button in a permission note makes it a pending card whose buttons are copied (bar, Needs you); decide what the copies do and test with the card scrolled away (#587, #618).
